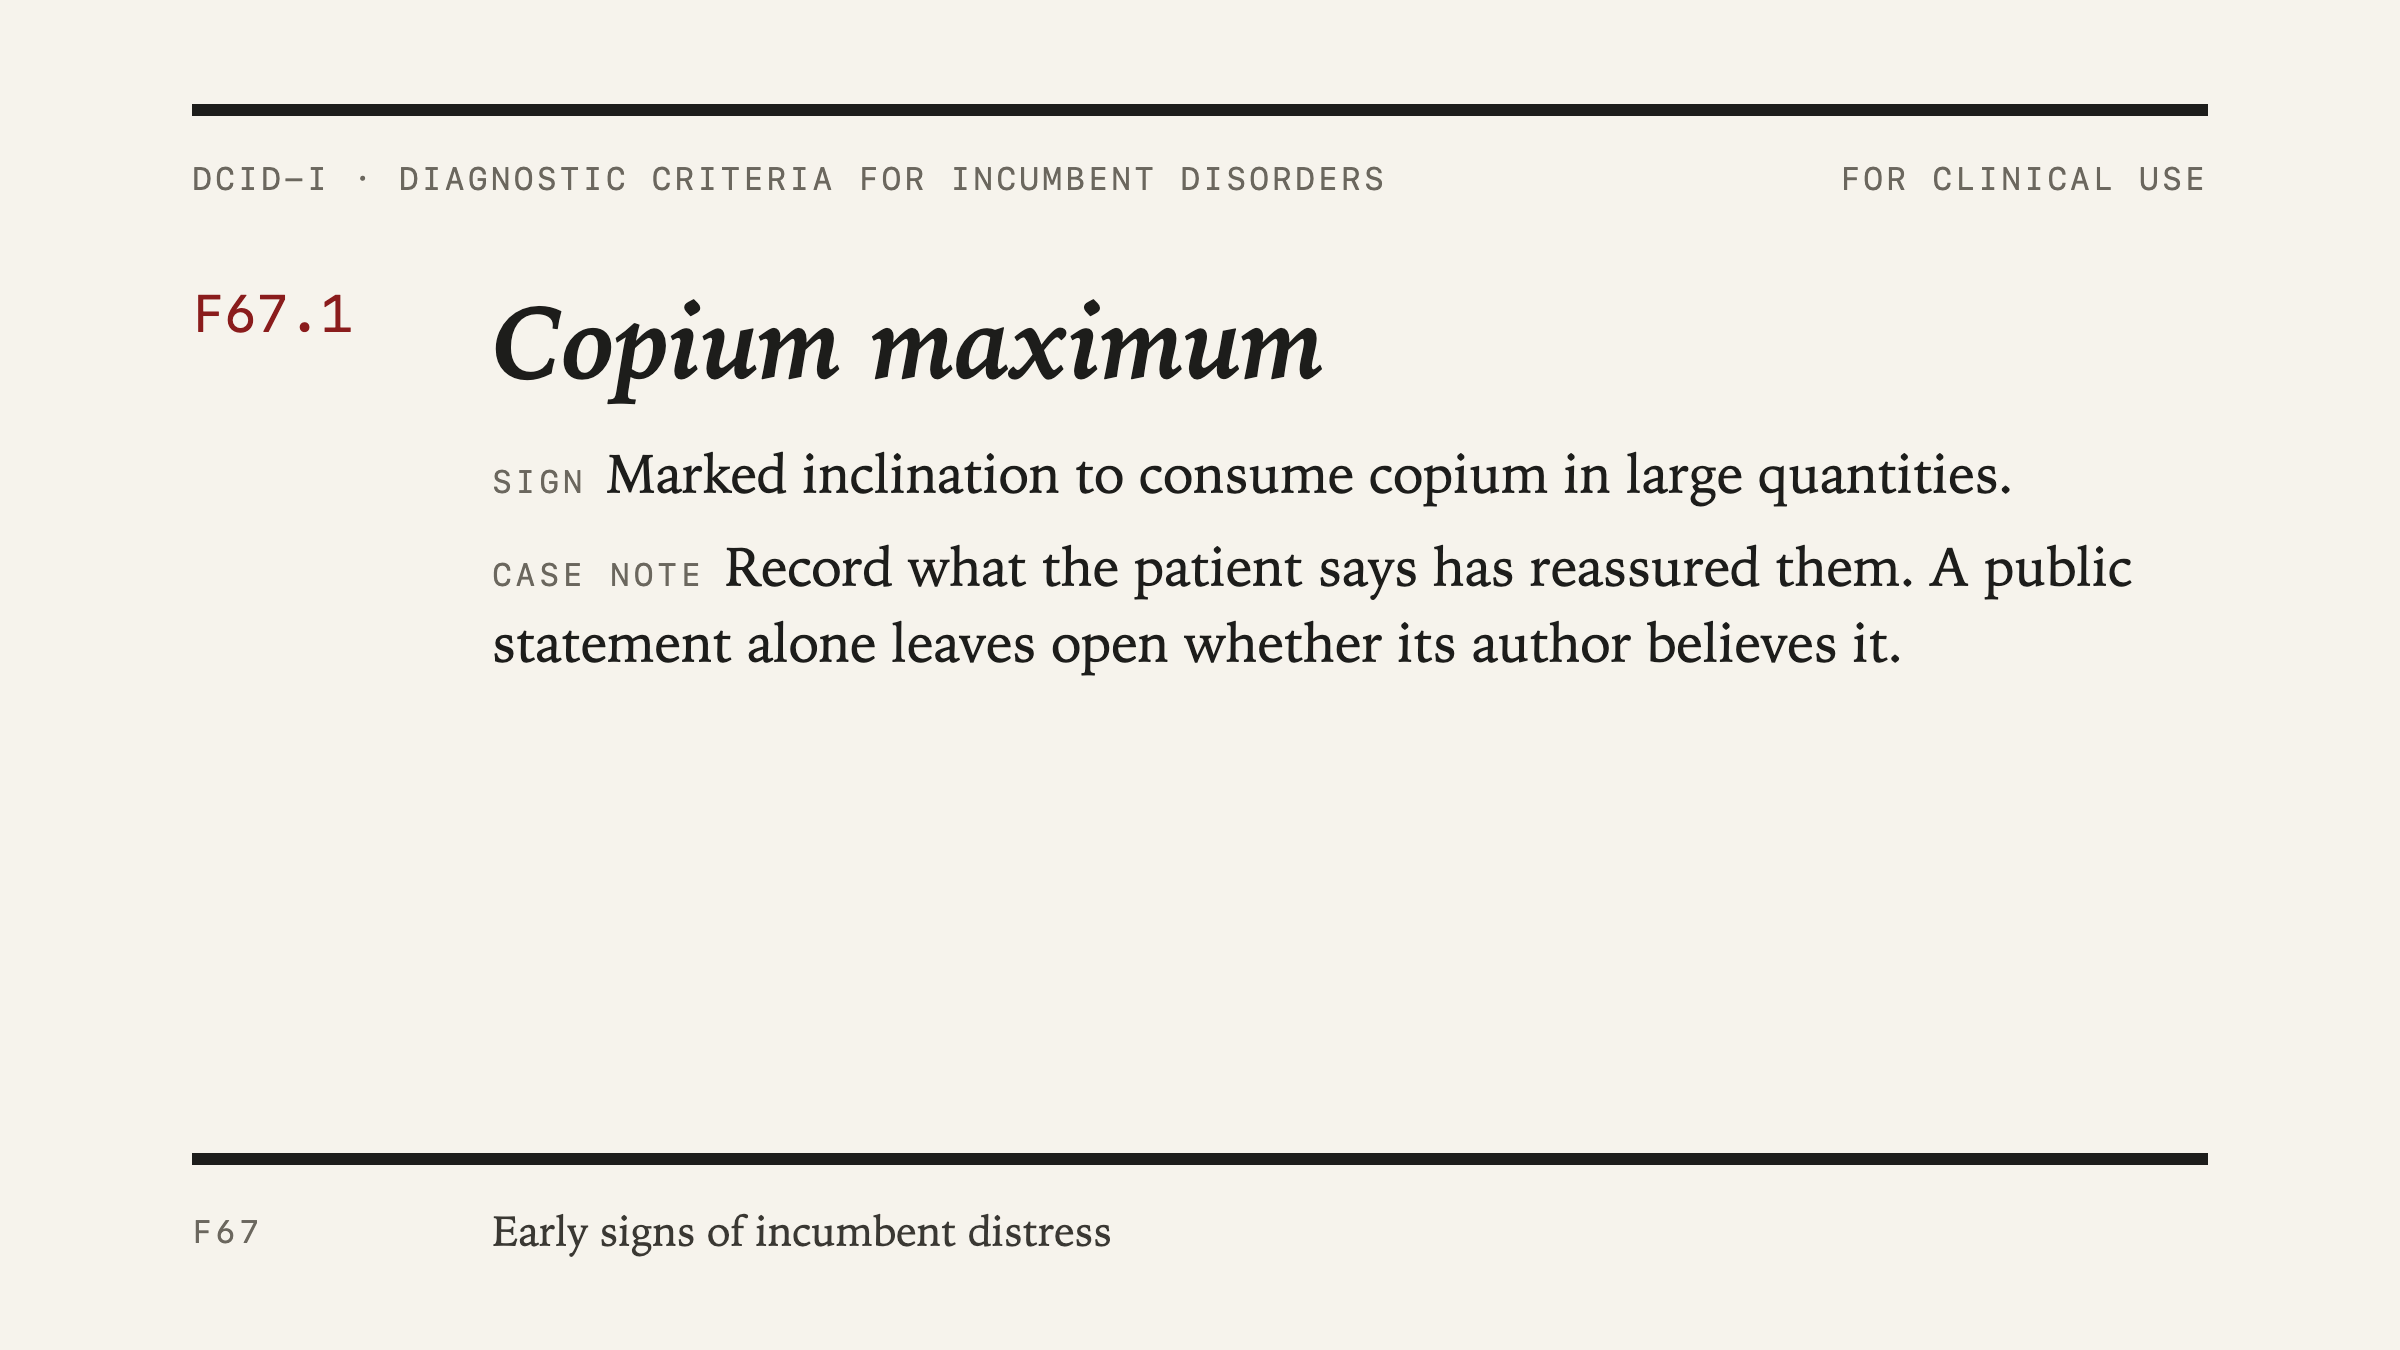
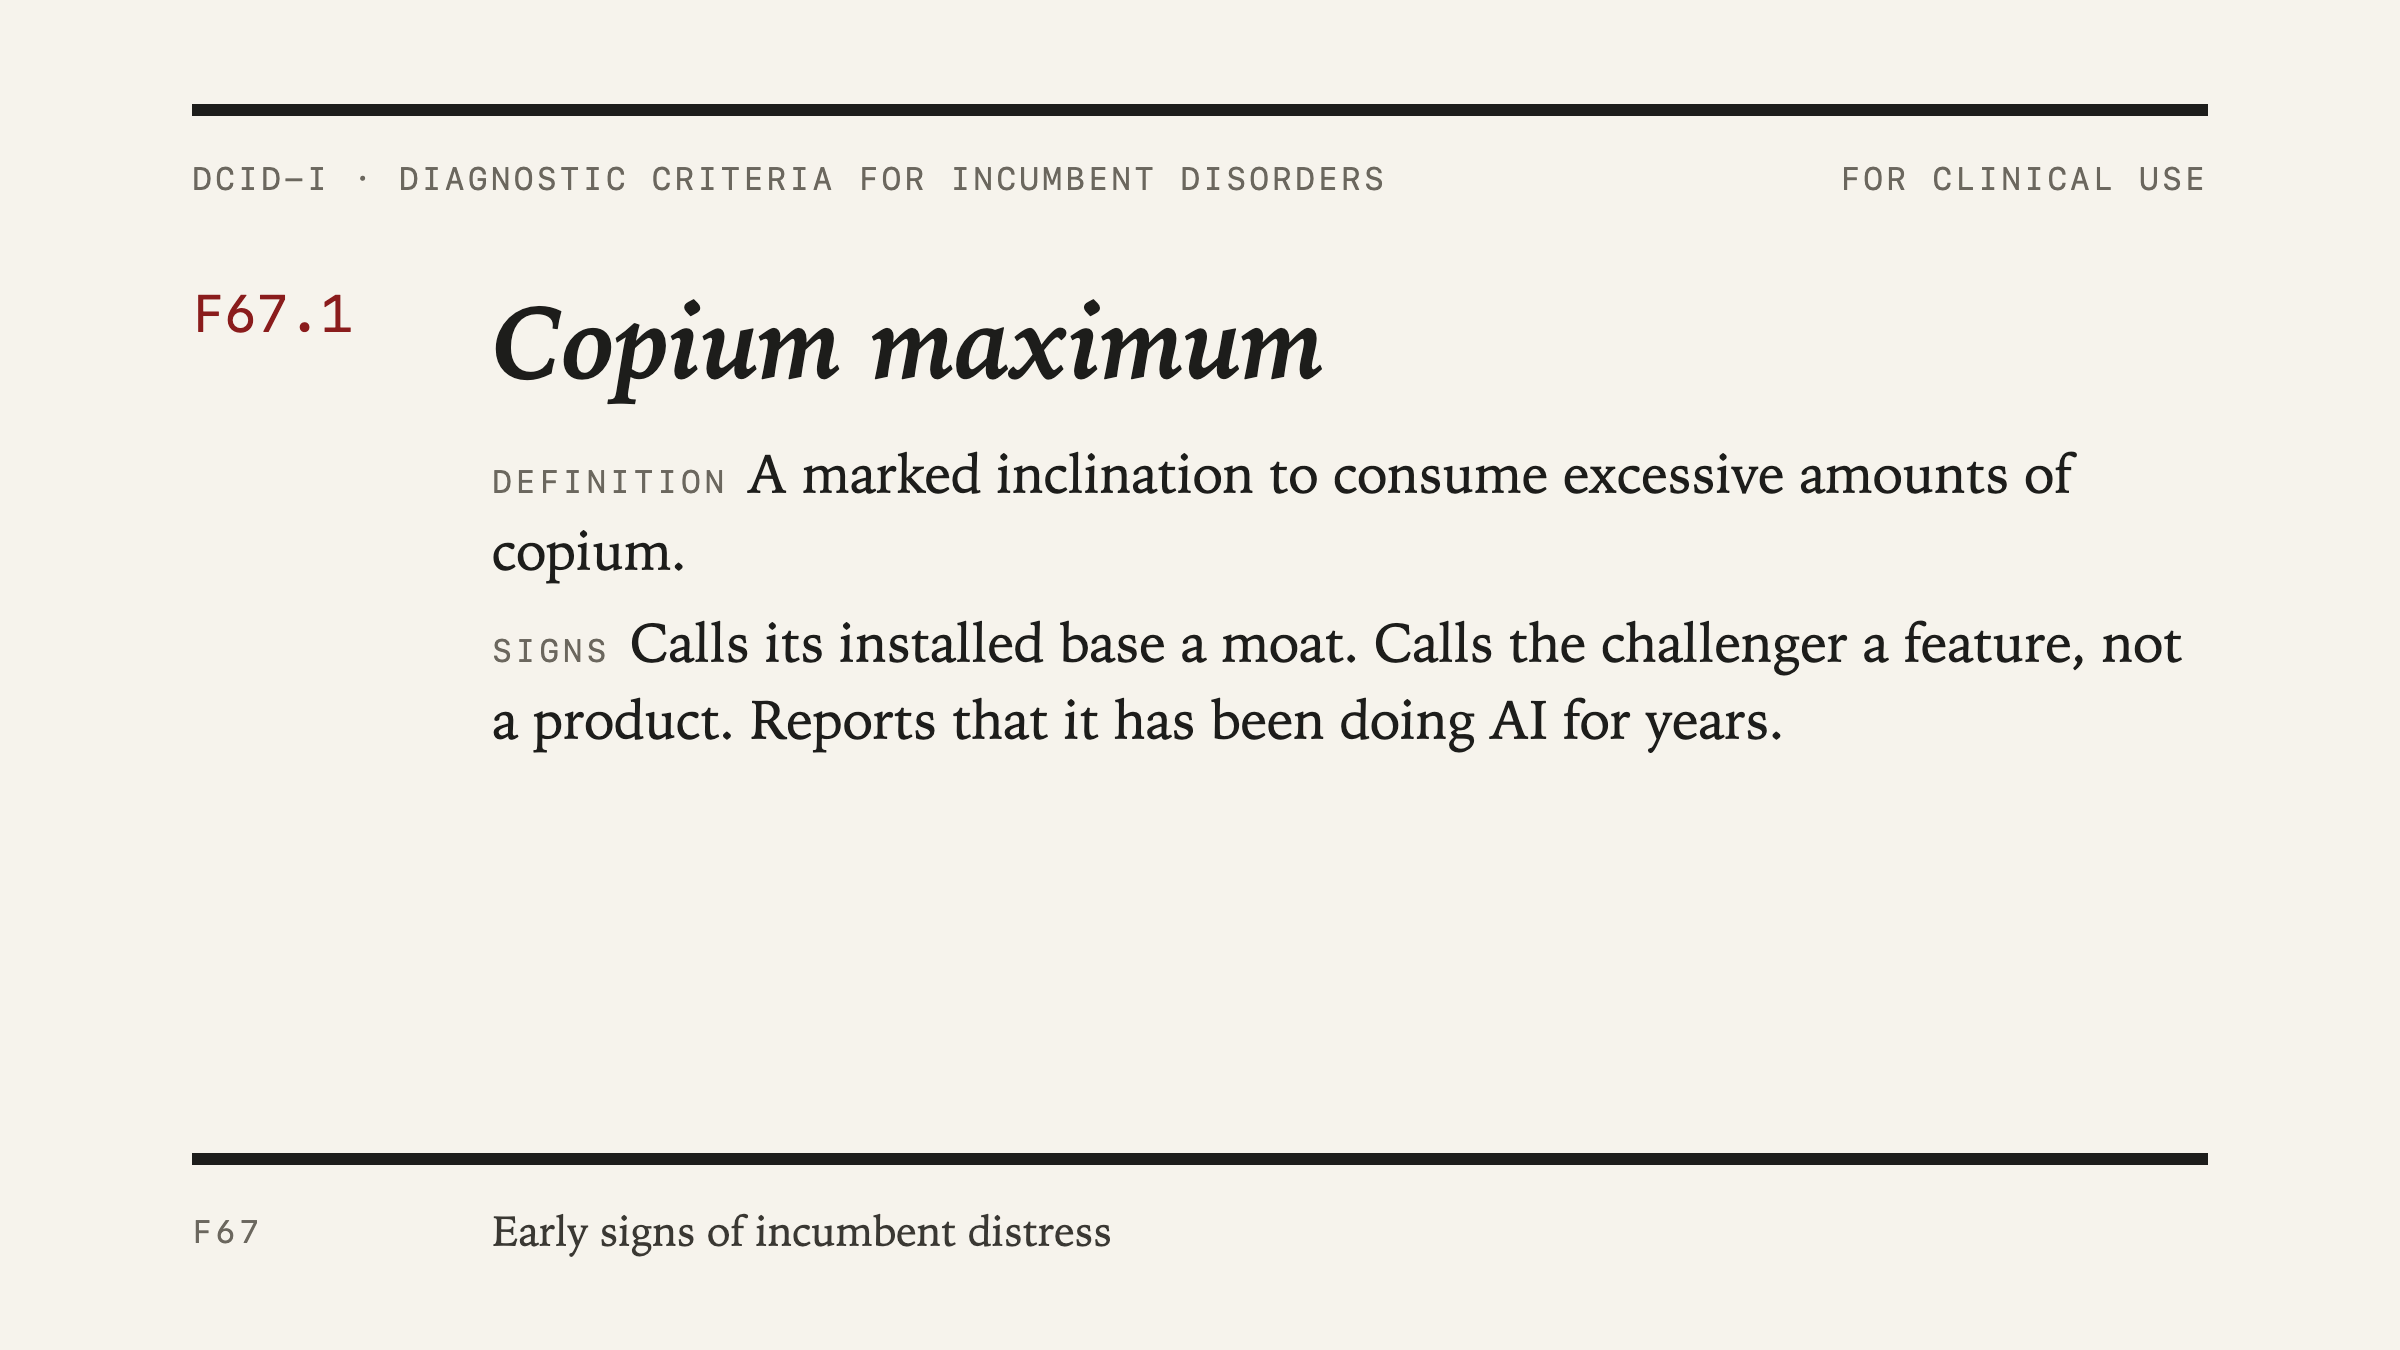
docs(F67.1): define copium maximum as the inclination to consume copium, criteria as observable signs

Changed region(s): [[0.1875, 0.4667, 0.9062, 0.56], [0.1875, 0.4044, 0.9062, 0.4356], [0.2188, 0.3422, 0.875, 0.3733]]

diff --git a/conditions/F67.1-copium-maximum.md b/conditions/F67.1-copium-maximum.md
@@ -7,7 +7,7 @@ name: Copium maximum
 
 ## 1. Diagnostic Criteria
 
-A. A persistent pattern of reassuring statements about the patient’s competitive position, lasting at least two consecutive quarters, as indicated by three (or more) of the following:
+A. A marked inclination to consume excessive amounts of copium, lasting at least two consecutive quarters, as indicated by three (or more) of the following observable signs:
 
 1. Asserts that the patient’s data, installed base or customer relationships constitute a moat, without describing how the moat prevents a customer from leaving.
 2. Describes a new category of competitor as “a feature, not a product.”
@@ -16,9 +16,9 @@ A. A persistent pattern of reassuring statements about the patient’s competiti
 5. Reports that the patient “has been doing AI for years.”
 6. Attributes slowing growth to macroeconomic conditions in a quarter in which the category’s challengers grew.
 
-B. The statements increase in frequency or conviction as contrary evidence accumulates.
+B. Consumption increases in frequency or dose as contrary evidence accumulates.
 
-C. The pattern causes clinically significant impairment in strategic, product or capital-allocation functioning.
+C. The consumption causes clinically significant impairment in strategic, product or capital-allocation functioning.
 
 D. The statements are not better explained by a disclosure obligation, a renewal in progress, or a deliberate effort to steady employees (see [§8](#8-differential-diagnosis)).
 
